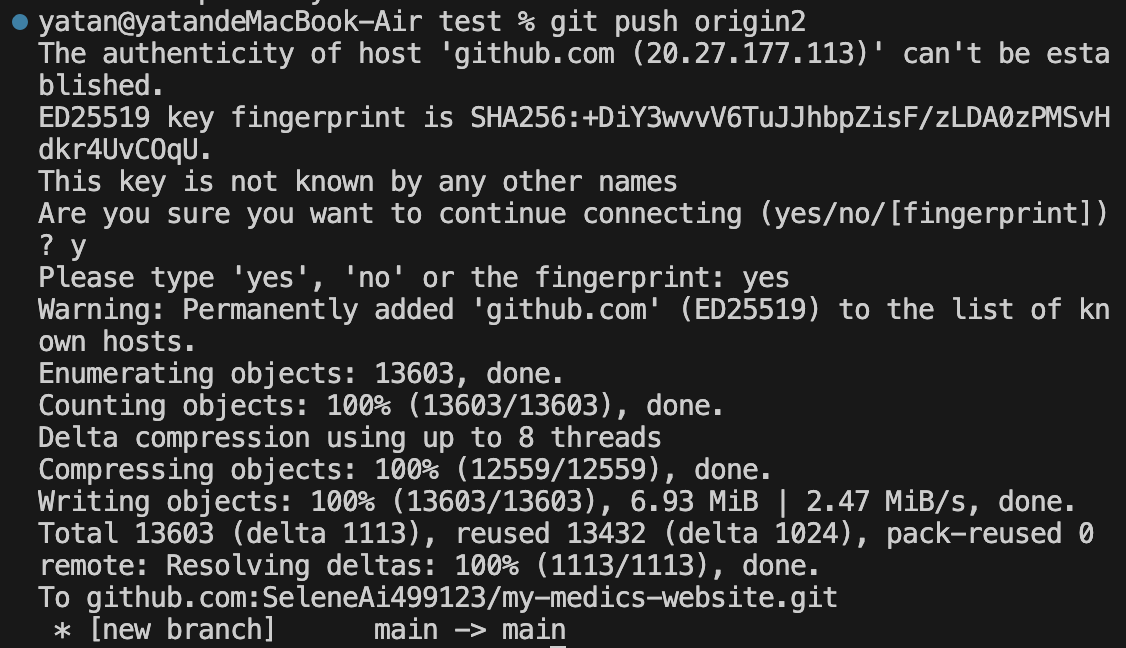
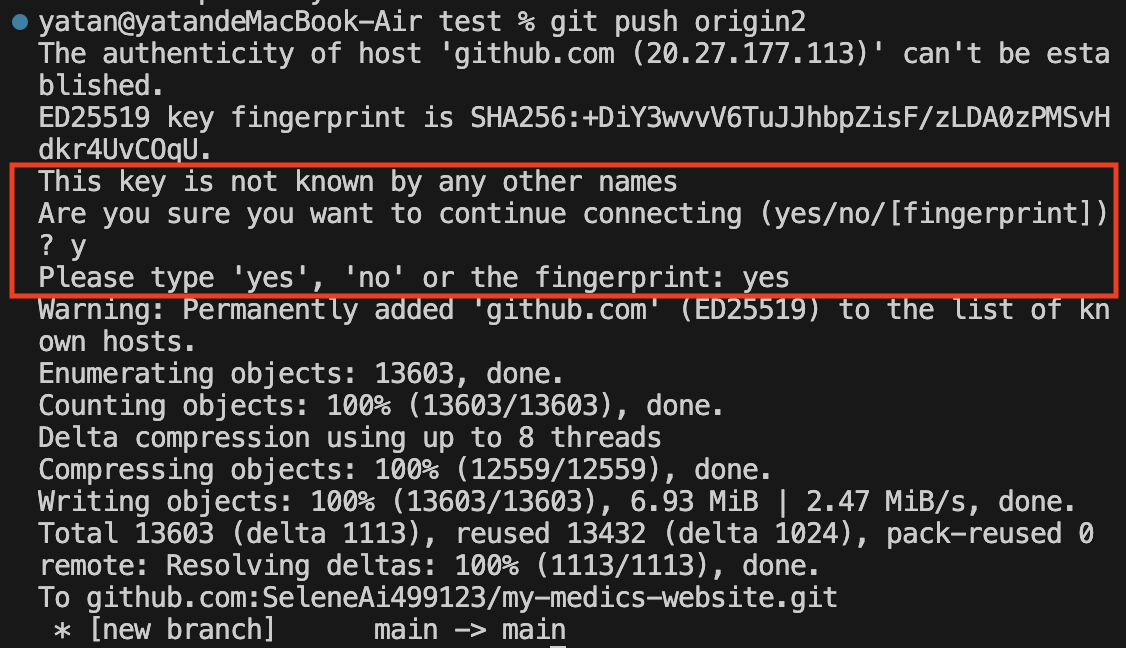
0326last

Changed region(s): [[0.0, 0.2469, 0.9947, 0.463]]

diff --git a/docs/git/git.md b/docs/git/git.md
@@ -3,8 +3,8 @@
 ## 常用控制指令
 
 - [git init](#git-init) : 在目錄中初始化一個新的 Git 儲存庫。
-- [git clone](#git-clone) : 從遠端儲存庫複製到本地。
 - [git remote](#git-remote) : 管理遠端儲存庫。
+- [git clone](#git-clone) : 複製遠端儲存庫到本地。
 - [git add / git stash](#git-add--git-stash) : 將文件的更改添加到暫存區。
 - [git commit -m](#git-commit--m) : 將暫存區中的更改提交到儲存庫。
 - [git reset / git revert](#git-reset--git-revert) : 撤銷更改。
@@ -25,9 +25,31 @@ git init <file directory>
 
 ---
 
+
+
+- ### **git remote**
+
+將本地儲存庫(local repo)與遠端儲存庫(remote repo)關聯，`origin`是遠端儲存庫的別名，可自行定義。
+
+```bash
+git remote add origin <remote repository url>
+```
+
+| 參數       | 說明                        |
+| --------- | --------------------------- |
+| `add`     | 新增遠端儲存庫           |
+| `remove`  | 刪除指定的遠端儲存庫           |
+| `rename`  | 將遠端儲存庫的別名更改為新的名稱 |
+| `set-url` | 設置遠端儲存庫的 URL          |
+
+
+> 延伸閱讀：[將本地變更推送至多個遠端存儲庫](../git/git-remote-multi-repo.md)
+
+---
+
 - ### **git clone**
 
-或是將遠端倉庫(remote repo)複製到本機的工作目錄(working dir)下。
+將遠端倉庫(remote repo)複製到本機的工作目錄(working dir)下，此指令會自動建立關聯。
 
 === "HTTPS"
     ```bash
@@ -44,26 +66,6 @@ git init <file directory>
 
 ---
 
-- ### **git remote**
-
-將本地儲存庫(local repo)與遠端儲存庫(remote repo)做關聯，`origin`是遠端儲存庫的別名，可自行定義。
-
-```bash
-git remote [add] origin <remote repository url>
-```
-
-| 參數       | 說明                        |
-| --------- | --------------------------- |
-| `remove`  | 刪除指定的遠端儲存庫           |
-| `rename`  | 將遠端儲存庫的別名更改為新的名稱 |
-| `set-url` | 設置遠端儲存庫的 URL          |
-| `-v`      | 列出所有遠端儲存庫及其 URL     |
-
-
-> 延伸閱讀：[將本地存儲庫關聯至多個遠端存儲庫](../git/git-remote-multi-repo.md)
-
----
-
 - ### **git add / git stash**
 
 提交檔案變更到暫存區(staging area)。
@@ -76,12 +78,12 @@ git add/stash .               // 當前目錄下所有的變更
 :bulb: ==git add 與 git stash的差異==：
 
 1. **git add**  
-    `git add` 命令用於將當前工作目錄中的指定文件的修改添加到暫存區（^^即將修改標記為準備提交的狀態^^）。
+    `git add` 命令用於將當前工作目錄中的指定文件的修改添加到暫存區，該文件為 ^^準備提交的狀態^^。
 2. **git stash**  
     `git stash` 命令用於將當前工作目錄中的修改（包括已經跟蹤的和未跟蹤的文件）暫存起來，能夠在 ^^切換分支或處理其他任務時暫時保存修改^^， 通常會搭配使用`git stash pop`將最近一次暫存的更改應用到當前分支。
 
 !!!success "總結"
-    總的來說，`git stash` 用於將當前所有修改暫存起來，以便稍後恢復它們，而 `git add` 則用於將特定文件的修改添加到暫存區中，以準備提交到儲存庫。
+    **`git stash` 用於將當前所有修改暫存起來，以便稍後恢復它們，而 `git add` 則用於將特定文件的修改添加到暫存區中，以準備提交到儲存庫。**
     
 
 ---
@@ -101,38 +103,41 @@ git commit -m "提交訊息"
 
 - ### **git reset / git revert**
 
-**1. git reset**
-`git reset` 用於取消暫存區或已提交的變更，可以選擇性地修改暫存區和工作目錄的內容，^^可能會刪除或修改到歷史紀錄^^；
+`git reset` 和 `git revert` 同樣是取消變更，它們的主要區別在於是否會修改到歷史記錄。
 
-```bash
-# 將檔案變更加入暫存區
-git add .
+1. **git reset**  
 
-# 取消暫存
-git reset
-```
+    `git reset` 用於取消暫存區或已提交的變更，^^可能會刪除或修改到歷史紀錄^^。
 
-![](../assets/images/screenshot/gitreset.png)
+    ```bash
+    # 將檔案變更加入暫存區
+    git add .
 
-**2. git revert**
+    # 取消暫存
+    git reset
+    ```
 
-`git revert` 用於撤銷已提交的變更，同時創建一個新的commit來反映這些更改的撤銷，^^用於在保持歷史完整性的同時撤銷先前的更改^^。
+    ![](../assets/images/screenshot/gitreset.png)
+
+2. **git revert**
+
+    `git revert` 用於撤銷已提交的變更，同時創建一個新的commit來反映這些更改的撤銷，用在 ^^保持歷史完整性的同時撤銷先前的更改^^。
 
 
-```bash
-git revert <commit> // 取消指定的commit
-git revert HEAD     // 取消前一次的commit
-```
+    ```bash
+    git revert <commit> // 取消指定的commit
+    git revert HEAD     // 取消前一次的commit
+    ```
 
-輸入`git log`查看歷史紀錄：
+    輸入`git log`查看歷史紀錄：
 
-![](../assets/images/screenshot/gitrevert.png)
+    ![](../assets/images/screenshot/gitrevert.png)
 
 ---
 
 - ### **git push**
 
-將本地已提交的變更推送到遠端儲存庫，遠端儲存庫別名`origin`，本地預設分支為`main`。
+將本地已提交的變更(committed)推送到遠端儲存庫，遠端儲存庫別名`origin`，本地預設分支為`main`。
 
 ```bash
 git push origin main
@@ -183,16 +188,33 @@ git push origin main
 
 - ### **git checkout**
 
-切換到不同的分支，加上 `-b` 參數，可以同時創建與切換分支，省略 `git branch` 的動作。
+`git checkout` 命令有多種用途，主要用於切換分支、或將檔案復原到過去某個特定版本。
 
-```bash
-git checkout [-b] branch2
-```
-  
-輸入`git branch`可以查看分支狀態：
+1. **切換分支**  
 
-![](../assets/images/screenshot/gitcheckoutb2.png)
+    後面加上 `-b` 參數，可以同時創建與切換分支，省略 `git branch branch2` 的動作。
 
+    ```bash
+    git checkout [-b] branch2
+    ```
+    
+    可以輸入`git branch` 查看分支狀態：
+
+    ![](../assets/images/screenshot/gitcheckoutb2.png)
+
+2. **檢出檔案**
+
+    檢出檔案時，Git 會將指定檔案的內容從儲存庫中提取，並覆蓋工作目錄中的檔案，對該檔案所做的任何未提交的更改都將失去。
+
+    ```bash
+    # 講檔案復原到過去某個特定的版本
+    # <commit_hash> 需要透過git log查看
+    git checkout <commit_hash> <file>
+    
+    # 將檔案復原到上一個提交的版本
+    git checkout <file>
+    ```
+    
 
 
 
@@ -267,7 +289,7 @@ git checkout [-b] branch2
     ![](../assets/images/screenshot/mergeremotetolocal.png)
 
     !!!note "Note"
-        `git merge` ==不會拉取遠端儲存庫暫存區的檔案變更，只會針對已提交的檔案進行合併== ，想要確保取得遠端儲存庫的最新版本，可以使用 [git pull](#git-pull) 指令。
+        `git merge` ==不會拉取遠端儲存庫暫存區的檔案變更，只會針對已提交的檔案進行合併== ，想要確保取得遠端儲存庫的最新版本，可以使用 [git pull](#git-pull--git-fetch) 指令。
 
 
 ---
@@ -313,6 +335,7 @@ git checkout [-b] branch2
 
 - `git diff`：顯示工作目錄中的檔案與暫存區或上一個提交之間的差異。
 
+- `git remote -v` : 列出所有遠端儲存庫及其相應的 URL。
 
 
 

diff --git a/docs/git/git-remote-multi-repo.md b/docs/git/git-remote-multi-repo.md
@@ -1,4 +1,4 @@
-# 將本地目錄關聯至多個遠端存儲庫
+# 將本地變更推送至多個遠端存儲庫
 
 本文章將說明，在已經連接一個遠端存儲庫的情況下，要怎麼透過`git push`指令，將本地的變更推送至多個遠端存儲庫。
 
@@ -6,13 +6,13 @@
 
 ## 建立關聯
 
-1. 使用`git remote add`指令，連結至主要的遠端儲存庫：
+1. 使用`git remote add`指令，新增一個主要的遠端儲存庫：
 
     ```bash
     git remote add  origin <remote_repository_URL_1>
     ```
 
-2. 新增其他想要同步更新的遠端儲存庫，可以輸入以下指令：
+2. 新增其他想要同步更新的遠端儲存庫 URL，使用`git remote set-url`指令並在後面加上`--add --push`：
 
     ```bash
     git remote set-url --add --push origin <remote_repository_URL_2>
@@ -30,6 +30,8 @@
 
 ## 提交變更(commit) 並 push
 
+此時兩個遠端儲存庫共用 `origin` 別名，因此只要 push 一次，就能同步更新兩個遠端儲存庫拉！
+
 ```bash
 # 提交變更(commit)
 git add .
@@ -40,7 +42,7 @@ git push origin main
 ```
 
 !!!warning "Warning"
-    如果想要存取的伺服器沒有在 SSH 代理的 known_hosts 名單內，會跳出提示訊息 Are you sure you want to continue connecting，這時輸入 `yes` 來確定使用此金鑰進行連線。
+    如果是第一次透過SSH URL進行通信時，會跳出提示訊息 Are you sure you want to continue connecting，這是因為該SSH URL 不存在於 SSH 代理的 known_hosts 名單內，這時輸入 `yes` 來確定進行連線。
 
 ![](../assets/images/screenshot/gitpushtoremote2.png)
 

diff --git a/docs/git/ssh-key.md b/docs/git/ssh-key.md
@@ -13,7 +13,7 @@ ssh-keygen -t rsa -b 4096 -C "example@example.com"
 ```
 
 !!!info "Info"
-    這將會在預設目錄（通常是 ~/.ssh/）下生成一對 SSH 金鑰（公鑰和私鑰）。在生成金鑰的過程中，可以選擇為其提供密碼以提高安全性。
+    這將會在預設目錄（通常是 ~/.ssh/）下生成一對 SSH 金鑰（公鑰和私鑰），在生成金鑰的過程中，可以選擇為其提供密碼以提高安全性。
 
 ---
 

diff --git a/docs/git/gui-tool.md b/docs/git/gui-tool.md
@@ -1,0 +1,1 @@
+# gui tool
